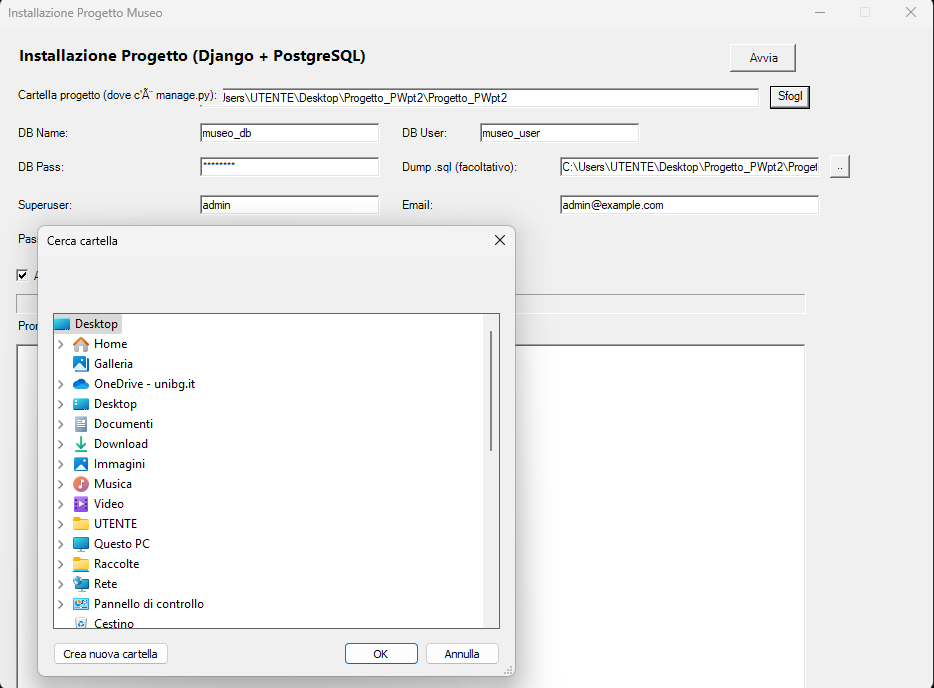
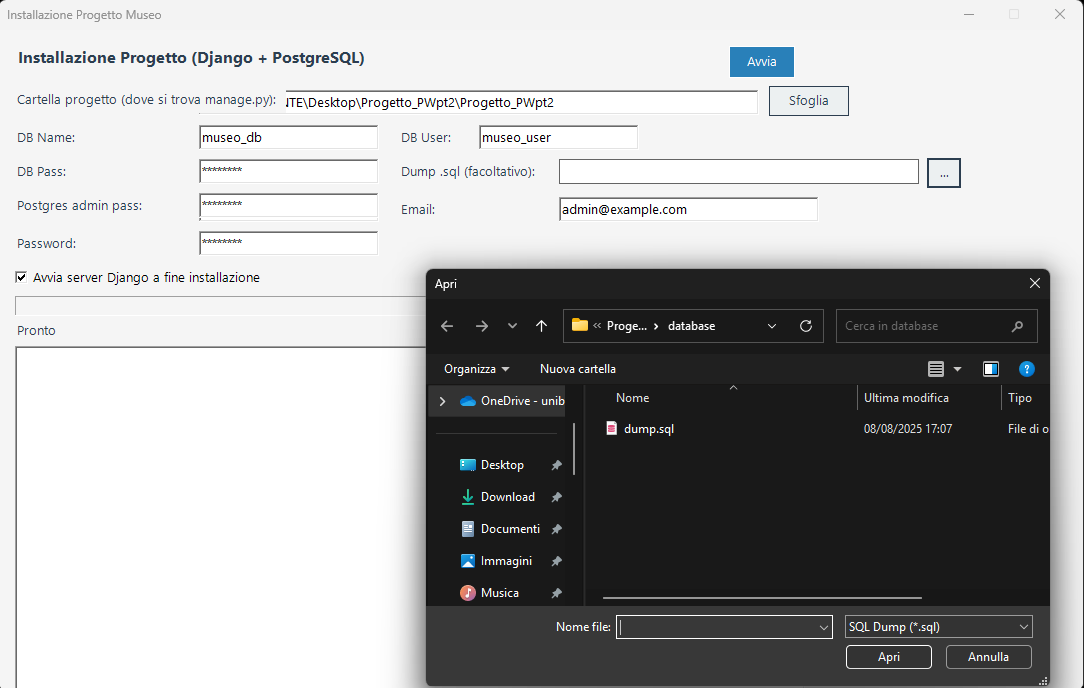
aggiornamenti documentazioni

diff --git a/Documentazione/istallazione.md b/Documentazione/istallazione.md
@@ -20,23 +20,19 @@
 
 5. Nel wizard:
    - usare **Sfoglia** per selezionare la **cartella principale del progetto** (quella con `manage.py`)  
-   - usare **...** per selezionare il file `dump.sql` che si trova nella cartella datbase
+   - usare **...** per selezionare il file `dump.sql` che si trova nella cartella database
+   - inserire nel campo Postgres admin pass la propria password postgreSQL (quella scelta al momento dell'istallazione)
    - lasciare invariati gli altri campi
 
 <img src="image-1.png" alt="Screenshot" width="500">
 
 6. **Cliccare Avvia**
-7. Dopo pochi secondi compare la scritta **“configuro PostgreSQL”**  
-   - nella shell viene richiesta la **password PostgreSQL**, quella scelta al momento dell'istallazione di Postgre (non appare mentre si scrive, ma viene letta)  
-   - inserire la password due volte
+7. A questo punto il wizard procede nell'istallazione automaticamente, a fine download si apriranno:
+   - il sito sul proprio browser predefinito 
+   - una power shell dove vengono visionati tutti i log
 
-<img src="image-3.png" alt="Screenshot" width="900">
 
-8. Dopo l’inserimento della password il wizard **prosegue automaticamente**
-9. Al termine:
-   - il sito si apre automaticamente nel browser  
-   - se non si apre, nel wizard compare un **link cliccabile** per accedere al sito  
-   - attendere alcuni secondi per l’avvio del server Django
+8. (Opzionale) Nel caso non si dovesse aprire il sito, (a primo impatto il sito non si carica, bisogna aspettare il caricamento del server django (pochi istanti)), sopra la console dei log del wizard o all'interno della power shell viene mostrato il link cliccabile dove viene aperto il sito 
 
 ---
 
